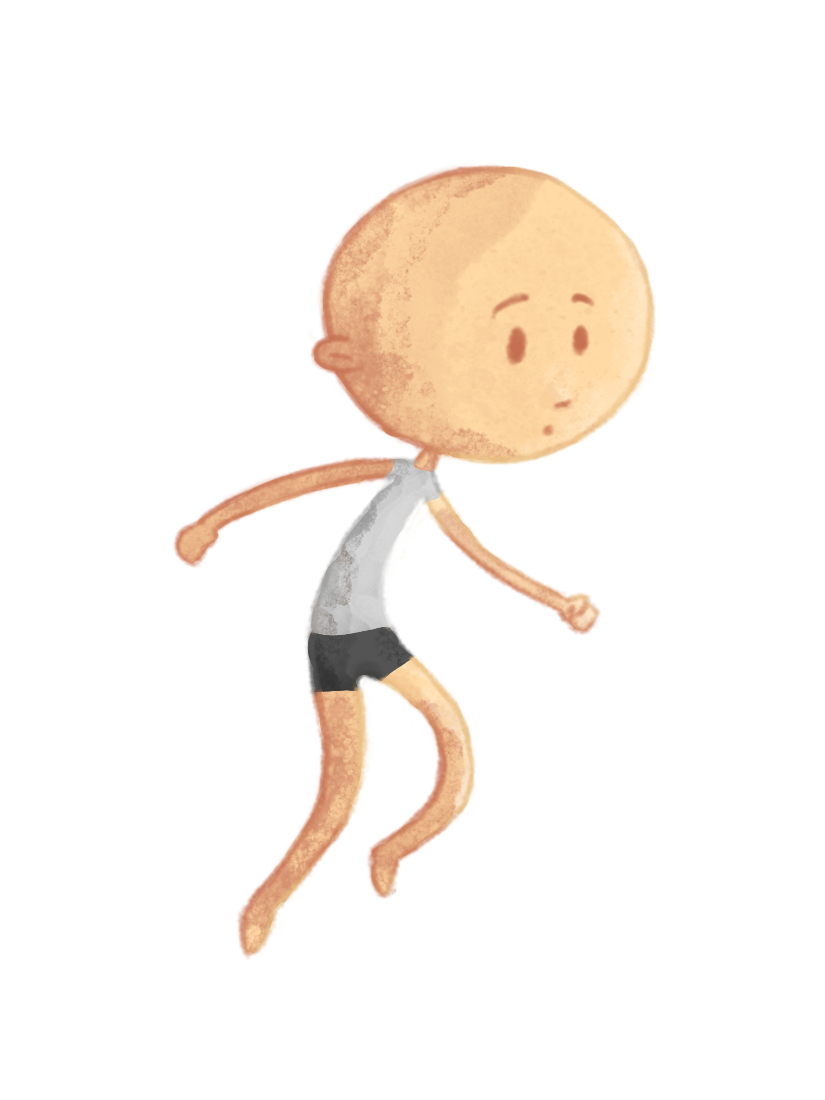
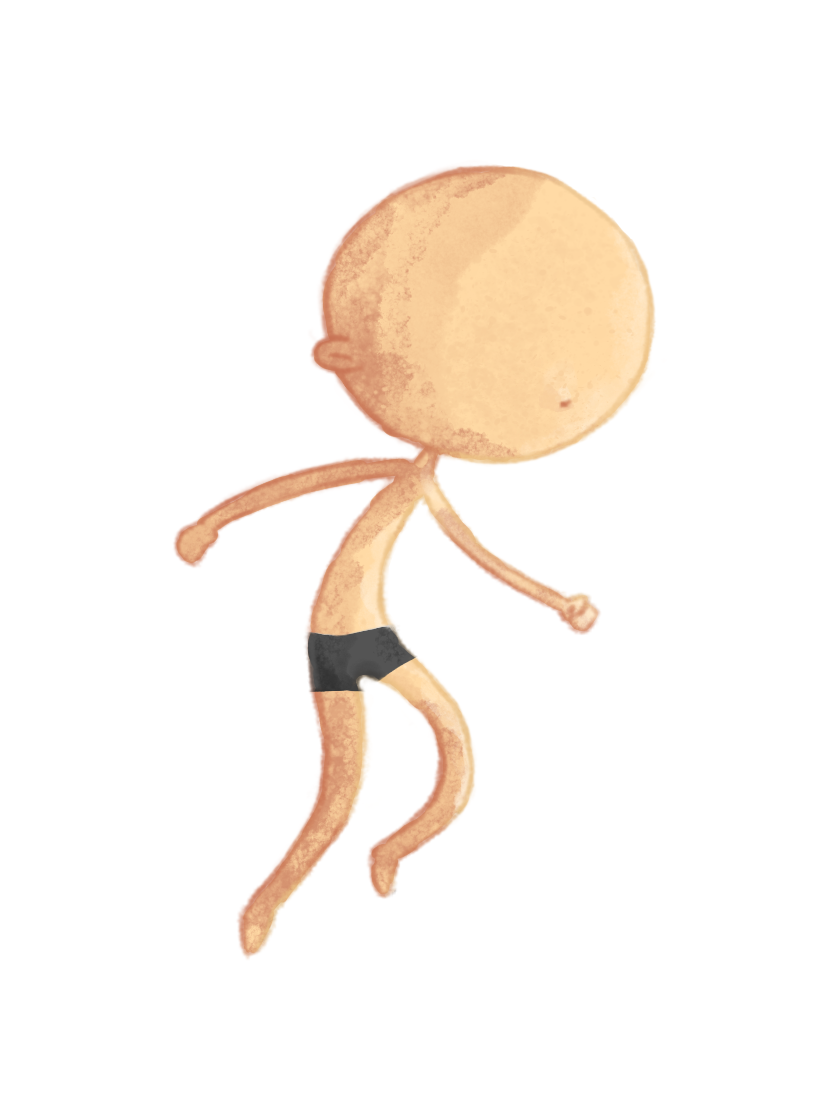
feat: float animation; extra updates

Changed region(s): [[0.3636, 0.4018, 0.5455, 0.5873], [0.697, 0.2473, 0.7273, 0.34], [0.6061, 0.2473, 0.6364, 0.34]]

diff --git a/src/containers/SideA/index.tsx b/src/containers/SideA/index.tsx
@@ -5,6 +5,7 @@ import * as S from './styles'
 
 import empty from '../../assets/images/body/empty.png'
 import body from '../../assets/images/body/body.png'
+import top from '../../assets/images/top/top01.png'
 
 const SideA = () => {
 
@@ -17,11 +18,12 @@ const SideA = () => {
                 <div className='avatarName'>
                     {charName}
                 </div>
-                <S.ImagesContainer>
+                <S.ImagesContainer className='float'>
                     <img className='absoluteIgm' src={body} alt="Avatar body image" />
                     <img src={empty} alt="Just an empty image" />
-                    <img className='absoluteIgm' src={charParts.skin} alt="" />
-                    <img className='absoluteIgm' src={charParts.eyes} alt="" />
+                    <img className='absoluteIgm' src={charParts.skin} alt="Character's skin" />
+                    <img className='absoluteIgm' src={charParts.eyes} alt="Character's eyes" />
+                    <img className='absoluteIgm' src={charParts.top === '' ? top : charParts.top} alt="Character's shirt" />
                 </S.ImagesContainer>
             </S.AvatarContainer>
         </S.ContainerA>

diff --git a/src/utils/data/avatarData.ts b/src/utils/data/avatarData.ts
@@ -50,8 +50,10 @@ import mouth2 from '../../assets/images/mouth/thumb02.jpg'
 import hair1 from '../../assets/images/hair/thumb01.jpg'
 import hair2 from '../../assets/images/hair/thumb02.jpg'
 
-import top1 from '../../assets/images/top/thumb01.jpg'
+import top1 from '../../assets/images/top/thumb01.png'
 import top2 from '../../assets/images/top/thumb02.jpg'
+
+import topImg1 from '../../assets/images/top/top01.png'
 
 import bottom1 from '../../assets/images/bottom/thumb01.jpg'
 import bottom2 from '../../assets/images/bottom/thumb02.jpg'
@@ -190,7 +192,7 @@ export const avatarData = [
         image: [
             {
                 thumb: top1,
-                full: ''
+                full: topImg1
             },
             {
                 thumb: top2,

diff --git a/src/store/reducers/avatarLayers.ts b/src/store/reducers/avatarLayers.ts
@@ -4,13 +4,15 @@ type avatarState = {
     avatarLayers: {
         skin: string
         eyes: string
+        top: string
     }
 }
 
 const initialState: avatarState = {
     avatarLayers: {
         skin: '',
-        eyes: ''
+        eyes: '',
+        top: ''
     }
 }
 
@@ -25,6 +27,10 @@ const nameSlice = createSlice({
 
             if (action.payload.includes("eyes")) {
                 state.avatarLayers.eyes = action.payload
+            }
+
+            if (action.payload.includes("top")) {
+                state.avatarLayers.top = action.payload
             }
         }
     }

diff --git a/src/styles/index.ts b/src/styles/index.ts
@@ -17,6 +17,22 @@ const GlobalStyle = createGlobalStyle`
         font-family: 'Ubuntu', sans-serif;
     }
 
+    @keyframes float {
+	0% {
+		transform: translatey(0px);
+	}
+	50% {
+		transform: translatey(-20px);
+	}
+	100% {
+		transform: translatey(0px);
+	}
+}
+
+    .float {
+        animation: float 6s ease-in-out infinite;
+    }
+
     @media (min-width: 768px) {
         #customScrollbar::-webkit-scrollbar-track {
         -webkit-box-shadow: inset 0 0 6px rgba(0,0,0,0.3);

diff --git a/src/components/ListItem/index.tsx b/src/components/ListItem/index.tsx
@@ -27,6 +27,10 @@ const ListItem = ({ id, title, image }: Props) => {
         if (title === 'Eyes') {
             return '#d7d46d'
         }
+
+        if (title === 'Top') {
+            return '#8f442f'
+        }
     }
 
     return (
